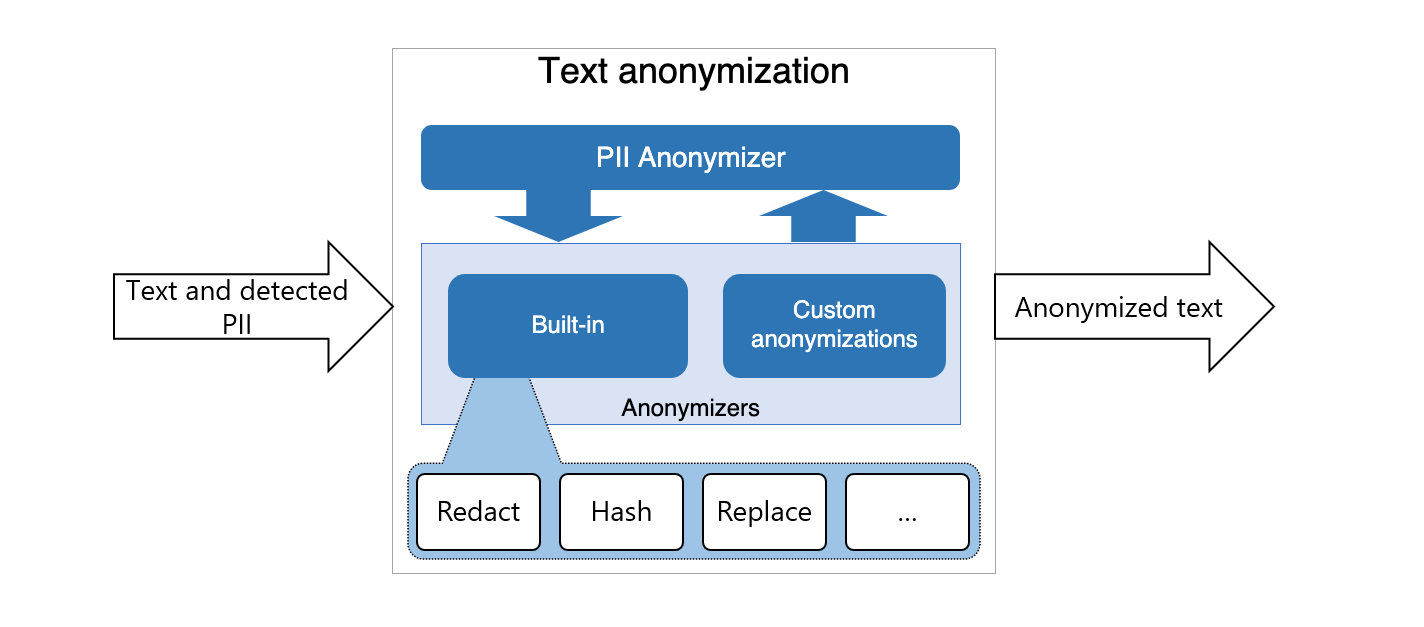
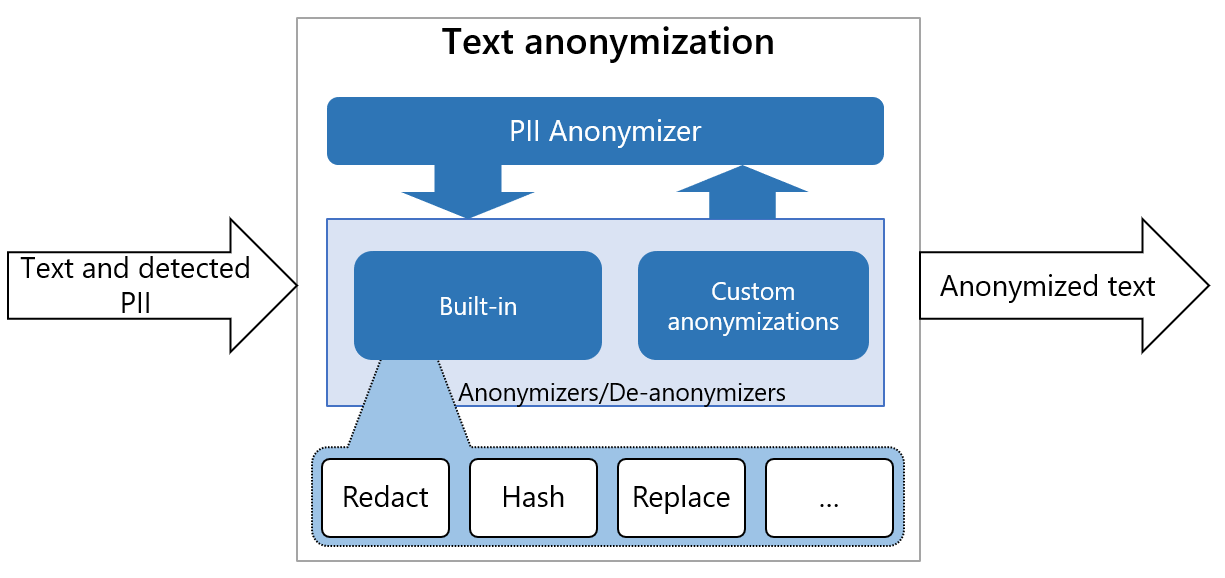
Some changes and bug fixes in our docs (#683)

Changed region(s): [[0.0, 0.0311, 0.9927, 0.9965], [0.9306, 0.5606, 0.9616, 0.6228], [0.9306, 0.3737, 0.9616, 0.436]]

diff --git a/presidio-anonymizer/presidio_anonymizer/entities/engine/anonymizer_result.py b/presidio-anonymizer/presidio_anonymizer/entities/engine/anonymizer_result.py
@@ -8,8 +8,7 @@ from presidio_anonymizer.entities.engine.result import OperatorResult
 class AnonymizerResult(PIIEntity):
     """Information about the encrypted entity."""
 
-    def __init__(self, start: int,
-                 end: int, entity_type: str) -> 'AnonymizerResult':
+    def __init__(self, start: int, end: int, entity_type: str) -> "AnonymizerResult":
         """
         Information about the anonymized entity we want to deanonymize.
 
@@ -21,18 +20,17 @@ class AnonymizerResult(PIIEntity):
         self.logger = logging.getLogger("presidio-anonymizer")
 
     @classmethod
-    def from_json(cls, json: Dict) -> 'AnonymizerResult':
+    def from_json(cls, json: Dict) -> "AnonymizerResult":
         """
-        Create EncryptEntity from user json.
+        Create AnonymizerResult from user json.
 
-        :param json e.g.:
+        :param json: json representation for this anonymizer result. For example:
         {
             "start": 0,
             "end": 10,
             "key": "1111111111111111",
             "entity_type":"PERSON",
         }
-        :return: AnonymizerResult object
         """
         start = json.get("start")
         end = json.get("end")
@@ -44,10 +42,10 @@ class AnonymizerResult(PIIEntity):
         """
         Convert anonymized entity returned from anonymizer engine to encrypt result.
 
-        :param key: the key we used to encrypt the text.
         :param operator_result: a single anonymizer encrypt result we received
         from the engine.
         :return:
         """
-        return cls(operator_result.start, operator_result.end,
-                   operator_result.entity_type)
+        return cls(
+            operator_result.start, operator_result.end, operator_result.entity_type
+        )

diff --git a/presidio-anonymizer/presidio_anonymizer/entities/engine/result/engine_result.py b/presidio-anonymizer/presidio_anonymizer/entities/engine/result/engine_result.py
@@ -2,8 +2,7 @@
 import json
 from typing import List
 
-from presidio_anonymizer.entities.engine.result import \
-    OperatorResult
+from presidio_anonymizer.entities.engine.result import OperatorResult
 
 
 class EngineResult:
@@ -46,7 +45,7 @@ class EngineResult:
     def __eq__(self, other) -> bool:
         """Verify two instances are equal.
 
-        :return true if the two instances are equal, false otherwise.
+        Returns true if the two instances are equal, false otherwise.
         """
         return self.text == other.text and all(
             map(lambda x, y: x == y, self.items, other.items)

diff --git a/presidio-anonymizer/presidio_anonymizer/operators/decrypt.py b/presidio-anonymizer/presidio_anonymizer/operators/decrypt.py
@@ -33,7 +33,7 @@ class Decrypt(Operator):
         :param params:
             * *key* The key supplied by the user for the encryption.
                     Should be a string of 128, 192 or 256 bits length.
-        :raises: InvalidParamException in case on an invalid parameter.
+        :raises InvalidParamException in case on an invalid parameter.
         """
         key = params.get(self.KEY)
         validate_parameter(key, self.KEY, str)

diff --git a/presidio-anonymizer/presidio_anonymizer/operators/encrypt.py b/presidio-anonymizer/presidio_anonymizer/operators/encrypt.py
@@ -31,7 +31,7 @@ class Encrypt(Operator):
         :param params:
             * *key* The key supplied by the user for the encryption.
                     Should be a string of 128, 192 or 256 bits length.
-        :raises: InvalidParamException in case on an invalid parameter.
+        :raises InvalidParamException in case on an invalid parameter.
         """
         key = params.get(self.KEY)
         validate_parameter(key, self.KEY, str)

diff --git a/presidio-anonymizer/presidio_anonymizer/entities/invalid_exception.py b/presidio-anonymizer/presidio_anonymizer/entities/invalid_exception.py
@@ -2,7 +2,10 @@
 
 
 class InvalidParamException(Exception):
-    """Throw exception with error when user input is not valid."""
+    """Throw exception with error when user input is not valid.
+
+    param msg: Message to be added to the exception
+    """
 
     def __init__(self, msg: str):
         self.err_msg = msg

diff --git a/docs/anonymizer/index.md b/docs/anonymizer/index.md
@@ -1,10 +1,9 @@
 # Presidio Anonymizer
 
 The Presidio anonymizer is a Python based module for anonymizing detected PII text
-entities with desired values. Presidio anonymizer supports both anonymization and 
-deanonymization by using operators. Operators are built-in text manipulation classes 
+entities with desired values. Presidio anonymizer supports both anonymization and
+deanonymization by using operators. Operators are built-in text manipulation classes
 which can be easily extended.
-
 
 ![Anonymizer Design](../assets/anonymizer-design.png)
 
@@ -177,13 +176,14 @@ which can be easily extended.
         }
     ]}
     ```
-## Built-in operators:
 
-Operator type | Operaor name | Description | Parameters
-| --- | --- | ---| ---|
+## Built-in operators
+
+Operator type | Operaor name | Description | Parameters |
+| --- | --- | --- | --- |
 | Anonymize | replace | replaces the PII with desired value | `new_value` - replaces existing text with the given value.<br> If `new_value` is not supplied or empty, default behavior will be: <entity_type\> e.g: <PHONE_NUMBER\> |
 | Anonymize | redact | removes the PII completely from text | None |
-| Anonymize | hash | hash the PII using either sha256, sha512 or md5 | `hash_type` - sets the type of hashing. Can be either `sha256`, `sha512` or `md5`. <br> The default hash type is `sha256`. | 
+| Anonymize | hash | hash the PII using either sha256, sha512 or md5 | `hash_type` - sets the type of hashing. Can be either `sha256`, `sha512` or `md5`. <br> The default hash type is `sha256`. |
 | Anonymize | mask | replaces the PII with a given character | `chars_to_mask` - the amount of characters out of the PII that should be replaced. <br> `masking_char` - the character to be replaced with. <br> `from_end` - Whether to mask the PII from it's end. |
 | Anonymize | encrypt | encrypts the PII using a given key | `key` - a cryptographic key used for the encryption. |
 | Deanonymize | decrypt | decrypt the encrypted PII in the text using the encryption key | `key` - a cryptographic key used for the encryption is also used for the decryption. |
@@ -192,7 +192,6 @@ Operator type | Operaor name | Description | Parameters
     When performing anonymization, if anonymizers map is empty or "DEFAULT" key is not stated, the default
     anonymization operator is "replace" for all entities. The replacing value will be the entity type
     e.g.: <PHONE_NUMBER\>
-
 
 ## Overlapping Anonymization Scenarios
 

diff --git a/docs/text_anonymization.md b/docs/text_anonymization.md
@@ -5,3 +5,13 @@ Presidio's features two main modules for anonymization PII in text:
 - [Presidio analyzer](analyzer/index.md): Identification PII in text
 - [Presidio anonymizer](anonymizer/index.md): Anonymize detected PII entities using different operators
 
+In most cases, we would run the Presidio analyzer to detect where PII entities exist,
+and then the Presidio anonymizer to remove those using specific operators (such as redact, replace, hash or encrypt)
+
+This figure presents the overall flow in high level:
+
+![Analyze and anonymize](assets/analyze-anonymize.png)
+
+- The [Presidio Analyzer](analyzer/index.md) holds multiple recognizers, each one capable of detecting specific PII entities. These recognizers leverage regular expressions, deny lists, checksum, rule based logic, Named Entity Recognition ML models and context from surrounding words.
+- The [Presidio Anonymizer](anonymizer/index.md) holds multiple operators, each one can be used to anonymize the PII entity in a different way. Additionally, it can be used to de-anonymize an already anonymized entity (For example, decrypt an encrypted entity)
+
